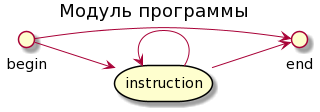
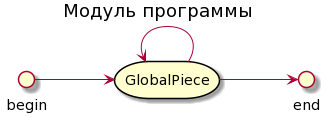
spec: global var, main, fixed context

diff --git a/src/Nodes.cpp b/src/Nodes.cpp
@@ -1,0 +1,27 @@
+#include <iostream>
+#include <string>
+#include <stack>
+#include <vector>
+
+using namespace std;
+
+class Context;
+
+class Program{
+public:
+	Context global;
+	vector<Context> contextStack;
+	map<FunctionSignature,Body> functions;
+	int Calc();
+	bool Save(ostream &os);
+	void Load(istream &is);
+};
+
+class Instruction{
+public:
+	int Calc();
+	bool Save(ostream &os);
+	void LoadInstruction(istream &is){}
+private:
+	void Load(istream &is);
+};

diff --git a/src/main.cpp b/src/main.cpp
@@ -1,11 +1,10 @@
 #include <iostream>
 #include <string>
-#include "literal.cpp"
+#include <nodes.cpp>
 
 using namespace std;
 
 int main(int argc, char* argv[]) {
-	// utility recieves 1 argument - source file path
 	
 	return 0;
 }

diff --git a/README.md b/README.md
@@ -38,6 +38,16 @@
 
 ![alt text](img/constructions/program_module.png)
 
+![alt text](img/constructions/global_piece.png)
+
+![alt text](img/constructions/global_var_declaration.png)
+
+![alt text](img/constructions/import.png)
+
+![alt text](img/constructions/function_declaration.png)
+
+![alt text](img/constructions/body.png)
+
 ![alt text](img/constructions/instruction.png)
 
 ![alt text](img/constructions/var_declaration.png)
@@ -49,10 +59,6 @@
 ![alt text](img/constructions/while.png)
 
 ![alt text](img/constructions/return.png)
-
-![alt text](img/constructions/import.png)
-
-![alt text](img/constructions/function_declaration.png)
 
 ![alt text](img/constructions/expression.png)
 
@@ -80,26 +86,48 @@ right unary - правый унарный оператор: ++ -- + -
 
 ### Модуль программы
 
-Программа состоит из модулей - исходных файлов (см. МОДУЛЬНАЯ РЕАЛИЗАЦИЯ). Модуль содержит последовательность инструкций (возможно, пустую). Выполнение программы осуществляется с первой инструкции основного модуля программы (в котором подключаются другие модули).
+Программа состоит из модулей - исходных файлов. Модуль содержит непустую последовательность инструкций первого уровня.
 
-### Инструкция
+### Инструкция первого уровня
 
 Инструкция представляет собой одну из следующих конструкций:
 
-- Объявление переменной
+- Объявление глобальных переменных
+- Объявление функции
+- Директива import подключения модуля
+
+Выполнение программы (вызов функции main) начинается после обработки всех инструкций первого уровня.
+
+### Объявление глобальных переменных
+
+Инструкцией global объявляются имена глобальных переменных, которым можно присваивать начальное значение в виде числа. Начальное значение по умолчанию - 0. Имена глобальных переменных не могут повторяться внутри всего набора модулей программы. Глобальные переменные доступны всюду по коду, они формируют глобальный контекст, доступный из любой функции.
+
+### Объявление функции
+
+Так как подключение модулей и объявление функций обрабатываются в первую очередь, функции в коде могут использоваться до их объявления.
+
+Объявляемые функции должны иметь разные сигнатуры. В сигнатуру входит только имя функции и количество принимаемых аргументов. По этим параметрам функции совпадать не могут, перегрузка не поддерживается.
+
+Любая функция возвращает значение. По умолчанию это 0. Для возврата иного значения используется инструкция return.
+
+### Директива import подключения модуля
+
+Сигнализирует интерпретатору о необходимости загрузить модуль к программе. Директива import не заменяется текстом подключаемого модуля. Если модуль уже был загружен, директива игнорируется.
+
+### Простая инструкция
+
+Инструкция представляет собой одну из следующих конструкций:
+
+- Объявление переменных
 - Выражение
 - Блок кода (составной оператор)
 - Условный оператор
 - Оператор цикла while
-- Объявление функции
 - Оператор return
-- Директива import подключения модуля
-
-Инструкции import и объявления фунции обрабатываются в первую очередь. Перед началом выполнения интерпретатор загружает в память все модули программы и сканирует код в поисках объявлений функций.
 
 ### Объявление переменных
 
-Инструкцией var объявляются имена новых переменных, которым можно присваивать начальное значение. Начальное значение по умолчанию - 0. Имена переменных не могут повторяться внутри одной инструкции объявления переменных, а также в разных инструкциях объявления переменных расположенных на одном уровне вложенности блоков {}. Повторное объявление в блоке с большим уровнем вложенности перекрывает предыдущее объявление переменной с таким именем внутри блока, на уровне которого произошло повторное объявление. После выъода из такого блока, копия уничтожается, и с этим именем снова связана старая переменная. Переменные становятся доступны толькопосле их объявления (в отличии от оператора var в javascript).
+Инструкцией var объявляются имена новых переменных, которым можно присваивать начальное значение в виде выражения. Начальное значение по умолчанию - 0. Имена переменных не могут повторяться внутри одной инструкции объявления переменных, а также в разных инструкциях объявления переменных расположенных на одном уровне вложенности блоков {}. Повторное объявление в блоке с большим уровнем вложенности перекрывает предыдущее объявление переменной с таким именем внутри блока, на уровне которого произошло повторное объявление. После выъода из такого блока, копия уничтожается, и с этим именем снова связана старая переменная. Переменные становятся доступны толькопосле их объявления (в отличии от оператора var в javascript).
 
 ### Блок
 
@@ -112,21 +140,9 @@ right unary - правый унарный оператор: ++ -- + -
 
 Аналогично условному оператору сначала вычисляется выражение-условие цикла. Тело цикла - инструкция, следующая после условия в скобках - выполняется после успешной проверки выражения на истиность. Если условие ложно, выполнение программы переходит к следующей после этого опратора цикла инструкции.
 
-### Объявление функции
-
-Так как подключение модулей и объявление функций объявляются в первую очередь, функции в коде могут использоваться до их объявления.
-
-Объявляемые функции должны иметь разные сигнатуры. В сигнатуру входит только имя функции и количество принимаемых аргументов. По этим параметрам функции совпадать не могут, перегрузка не поддерживается.
-
-Любая функция возвращает значение. По умолчанию это 0. Для возврата иного значения используется инструкция return.
-
 ### Оператор return
 
 Оператор завершает выполнение функции. При использовании оператора с выражением функция возвращает значение этого выражения, вычисляемого непосредственно перед выходом из функции. При использовании return без выражения, используется возвращаемое значение по умолчанию - 0.
-
-### Директива import подключения модуля
-
-Сигнализирует интерпретатору о необходимости загрузить модуль к программе. Директива import не заменяется текстом подключаемого модуля. Если модуль уже был загружен, директива игнорируется.
 
 ## ТИП ДАННЫХ ПЕРЕМЕННЫХ
 
@@ -173,19 +189,33 @@ right unary - правый унарный оператор: ++ -- + -
 
 ## ВНУТРЕННЯЯ СТРУКТУРА ИСПОЛНЯЕМОЙ ПРОГРАММЫ
 
-Каждый модуль программы загружается как одельный объект, который сохраняется в ассоциативный массив с ключом, который является строкой - путём к модулю (в том виде, в котором он указан в директиве import, либо в котором послан аргументом командной строки для основного модуля).
+Контекст - ассоциативный массив значений переменных, где ключ - имя переменной.
 
-![alt text](img/classes/class.modules.png)
+Доступ к переменным по имени происходит по порядку перехода по ссылкам в цепочке контекстов, начиная с текущего контекста. Для этого в контексте хранится ссылка на родительский контекст. Испольуется первое встреченное на пути объявление переменной.
 
-Код модуля не обязан выделяться фигурными скобками в блок, он автоматически целиком рассматривается как блок самого верхнего уровня - корневой блок.
+Запрещено повторное объявление переменных с именами, которые уже использованы в текущем контексте. Если переменная с таким именем использована в контексте выше по цепочке родительских контекстов, а в текущем контексте не объявлена, тогда в текущем контексте разрешено объявление такой переменной.
 
-![alt text](img/classes/class.module.png)
+При переходу к выполнению блока создаётся новый контекст, ссылающийся на текущий как на родительский. При выходе из блока созданный для блока контекст удаляется, и текущим становится его родительский - прежний текущий контекст. Вызов функции порождает новый контекст, для которого родительским контекстом будет глобальный контекст программы. Т.е. функция имеет доступ только к переменным, объявленным в её теле, и к глобальным переменным.
 
-Классы инструкций наследуются от одного интерфейса Instruction.
+![alt text](img/classes/class.context.png)
+
+Все функции в каждом модуле сохраняются в ассоциативный массив, где ключ - сигнатура функции, а значение - тело функции.  Выполнение программы осуществляется посредством вызова обязательной функции main. Аргументы функции main зануляются.
+
+Все глобальные переменные попадают в глобальный контекст программы. Глобальный контекст - это обычный контекст, у которого ссылка на предка никуда не указывает: предка нет.
+
+![alt text](img/classes/class.program.png)
+
+Перегрузка функций запрещена, проверка на несовпадение сигнатур производится по именам функций и количеству принимаемых ими аргументов. При совпадении обоих этих параметров обнаруживается перегрузка, запрещённая языком.
+
+![alt text](img/classes/class.function_signature.png)
+
+![alt text](img/classes/class.body.png)
+
+Классы простых инструкций наследуются от одного интерфейса Instruction.
 
 ![alt text](img/classes/class.block.png)
 
-При объявлении начальное значение либо задаётся присваиваемым выражением, либо определяется равным 0 по умолчанию.
+При объявлении переменной начальное значение либо задаётся присваиваемым выражением, либо определяется равным 0 по умолчанию.
 
 ![alt text](img/classes/class.variable_declaration.png)
 
@@ -224,18 +254,6 @@ right unary - правый унарный оператор: ++ -- + -
 ![alt text](img/classes/class.variable_name.png)
 
 ![alt text](img/classes/class.function_call.png)
-
-Перегрузка функций запрещена, проверка на несовпадение сигнатур производится по именам функций и количеству принимаемых ими аргументов. При совпадении обоих этих параметров обнаруживается перегрузка, запрещённая языком.
-
-![alt text](img/classes/class.function_signature.png)
-
-Объявления функций не входят в объект модуля, а сохраняются отдельно в ассоциативном массиве функций. В нём хранятся функции всех модулей.
-
-![alt text](img/classes/class.functions.png)
-
-Каждый уровень вложенности блока связан с контекстом, в котором хранится информация об объявленных на этом уровне вложенности блока переменных. Повторное объявление переменной запрещено, если в контексте этого блока переменная с таким именем уже объявлена. Однако не запрещено повторять имена переменных, объявленных в блоках уровнями выше текущего. Доступ к переменным по имени в контекстах производится по порядку повышения уровня вложенности, испольуется первое встреченное не пути объявление переменной. Для этого в контексте храится ссылка на контекст родительского блока. У корневого контекста ссылка никуда не ссылается.
-
-![alt text](img/classes/class.context.png)
 
 По такой древовидной структуре модуля происходит рекурсивное выполнение блоков инструкций и вычисление выражений. Перед выполнением программа приводится к этому виду.
 
